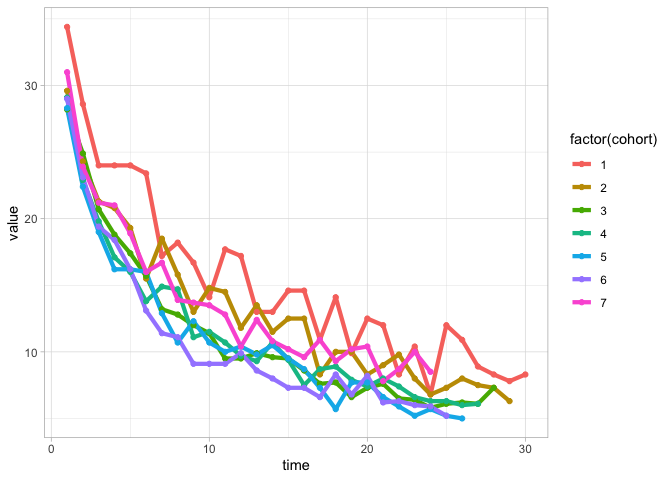
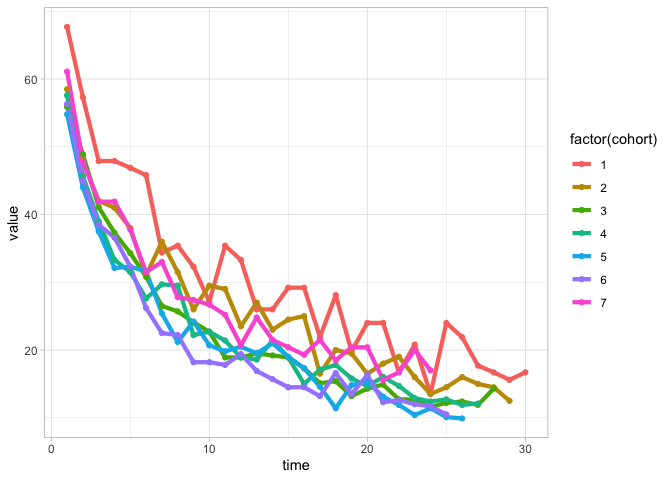
2nd release, fixed grouped count

diff --git a/README.md b/README.md
@@ -8,6 +8,7 @@
 [![R-CMD-check](https://github.com/PeerChristensen/cohorts/actions/workflows/R-CMD-check.yaml/badge.svg)](https://github.com/PeerChristensen/cohorts/actions/workflows/R-CMD-check.yaml)
 [![CRAN
 status](https://www.r-pkg.org/badges/version/cohorts)](https://CRAN.R-project.org/package=cohorts)
+[![Downloads](https://cranlogs.r-pkg.org/badges/grand-total/cohorts)](https://cranlogs.r-pkg.org/badges/grand-total/cohorts)
 <!-- badges: end -->
 
 Creating cohort tables from event data is complicated and requires
@@ -55,15 +56,15 @@ tracked from the first invoice month until the last month in the period.
 ``` r
 online_cohorts %>%
   cohort_table_month(CustomerID, InvoiceDate)
-#> # A tibble: 13 x 14
+#> # A tibble: 13 × 14
 #>    cohort `Dec 2010` `Jan 2011` `Feb 2011` `Mar 2011` `Apr 2011` `May 2011`
 #>     <int>      <int>      <int>      <int>      <int>      <int>      <int>
-#>  1      1       1423        622        522        666        539        655
-#>  2      2         NA        514        127        163        132        201
-#>  3      3         NA         NA        451        122         97        135
-#>  4      4         NA         NA         NA        509        106        155
-#>  5      5         NA         NA         NA         NA        362         98
-#>  6      6         NA         NA         NA         NA         NA        336
+#>  1      1        949        363        318        368        342        377
+#>  2      2         NA        421        101        119        102        138
+#>  3      3         NA         NA        380         94         73        106
+#>  4      4         NA         NA         NA        440         84        112
+#>  5      5         NA         NA         NA         NA        299         68
+#>  6      6         NA         NA         NA         NA         NA        279
 #>  7      7         NA         NA         NA         NA         NA         NA
 #>  8      8         NA         NA         NA         NA         NA         NA
 #>  9      9         NA         NA         NA         NA         NA         NA
@@ -71,8 +72,9 @@ online_cohorts %>%
 #> 11     11         NA         NA         NA         NA         NA         NA
 #> 12     12         NA         NA         NA         NA         NA         NA
 #> 13     13         NA         NA         NA         NA         NA         NA
-#> # … with 7 more variables: Jun 2011 <int>, Jul 2011 <int>, Aug 2011 <int>,
-#> #   Sep 2011 <int>, Oct 2011 <int>, Nov 2011 <int>, Dec 2011 <int>
+#> # … with 7 more variables: `Jun 2011` <int>, `Jul 2011` <int>,
+#> #   `Aug 2011` <int>, `Sep 2011` <int>, `Oct 2011` <int>, `Nov 2011` <int>,
+#> #   `Dec 2011` <int>
 ```
 
 ## Creating a day level cohort table
@@ -83,27 +85,26 @@ If we need to track activity on a daily basis, we can instead use the
 ``` r
 gamelaunch %>%
   cohort_table_day(userid, eventDate)
-#> # A tibble: 31 x 32
+#> # A tibble: 31 × 32
 #>    cohort `2016-04-27` `2016-04-28` `2016-04-29` `2016-04-30` `2016-05-01`
 #>     <int>        <int>        <int>        <int>        <int>        <int>
-#>  1      1          192           66           55           46           46
-#>  2      2           NA          399          118           97           85
-#>  3      3           NA           NA          740          209          184
-#>  4      4           NA           NA           NA          773          225
-#>  5      5           NA           NA           NA           NA          807
+#>  1      1           96           65           55           46           46
+#>  2      2           NA          200          117           96           84
+#>  3      3           NA           NA          370          207          181
+#>  4      4           NA           NA           NA          387          223
+#>  5      5           NA           NA           NA           NA          405
 #>  6      6           NA           NA           NA           NA           NA
 #>  7      7           NA           NA           NA           NA           NA
 #>  8      8           NA           NA           NA           NA           NA
 #>  9      9           NA           NA           NA           NA           NA
 #> 10     10           NA           NA           NA           NA           NA
-#> # … with 21 more rows, and 26 more variables: 2016-05-02 <int>,
-#> #   2016-05-03 <int>, 2016-05-04 <int>, 2016-05-05 <int>, 2016-05-06 <int>,
-#> #   2016-05-07 <int>, 2016-05-08 <int>, 2016-05-09 <int>, 2016-05-10 <int>,
-#> #   2016-05-11 <int>, 2016-05-12 <int>, 2016-05-13 <int>, 2016-05-14 <int>,
-#> #   2016-05-15 <int>, 2016-05-16 <int>, 2016-05-17 <int>, 2016-05-18 <int>,
-#> #   2016-05-19 <int>, 2016-05-20 <int>, 2016-05-21 <int>, 2016-05-22 <int>,
-#> #   2016-05-23 <int>, 2016-05-24 <int>, 2016-05-25 <int>, 2016-05-26 <int>,
-#> #   2016-05-27 <int>
+#> # … with 21 more rows, and 26 more variables: `2016-05-02` <int>,
+#> #   `2016-05-03` <int>, `2016-05-04` <int>, `2016-05-05` <int>,
+#> #   `2016-05-06` <int>, `2016-05-07` <int>, `2016-05-08` <int>,
+#> #   `2016-05-09` <int>, `2016-05-10` <int>, `2016-05-11` <int>,
+#> #   `2016-05-12` <int>, `2016-05-13` <int>, `2016-05-14` <int>,
+#> #   `2016-05-15` <int>, `2016-05-16` <int>, `2016-05-17` <int>,
+#> #   `2016-05-18` <int>, `2016-05-19` <int>, `2016-05-20` <int>, …
 ```
 
 ## Converting to percentages
@@ -116,27 +117,26 @@ function.
 gamelaunch %>%
   cohort_table_day(userid, eventDate) %>%
   cohort_table_pct(decimals = 1)
-#> # A tibble: 31 x 32
+#> # A tibble: 31 × 32
 #>    cohort `2016-04-27` `2016-04-28` `2016-04-29` `2016-04-30` `2016-05-01`
 #>     <int>        <dbl>        <dbl>        <dbl>        <dbl>        <dbl>
-#>  1      1          100         34.4         28.6         24           24  
-#>  2      2           NA        100           29.6         24.3         21.3
-#>  3      3           NA         NA          100           28.2         24.9
-#>  4      4           NA         NA           NA          100           29.1
+#>  1      1          100         67.7         57.3         47.9         47.9
+#>  2      2           NA        100           58.5         48           42  
+#>  3      3           NA         NA          100           55.9         48.9
+#>  4      4           NA         NA           NA          100           57.6
 #>  5      5           NA         NA           NA           NA          100  
 #>  6      6           NA         NA           NA           NA           NA  
 #>  7      7           NA         NA           NA           NA           NA  
 #>  8      8           NA         NA           NA           NA           NA  
 #>  9      9           NA         NA           NA           NA           NA  
 #> 10     10           NA         NA           NA           NA           NA  
-#> # … with 21 more rows, and 26 more variables: 2016-05-02 <dbl>,
-#> #   2016-05-03 <dbl>, 2016-05-04 <dbl>, 2016-05-05 <dbl>, 2016-05-06 <dbl>,
-#> #   2016-05-07 <dbl>, 2016-05-08 <dbl>, 2016-05-09 <dbl>, 2016-05-10 <dbl>,
-#> #   2016-05-11 <dbl>, 2016-05-12 <dbl>, 2016-05-13 <dbl>, 2016-05-14 <dbl>,
-#> #   2016-05-15 <dbl>, 2016-05-16 <dbl>, 2016-05-17 <dbl>, 2016-05-18 <dbl>,
-#> #   2016-05-19 <dbl>, 2016-05-20 <dbl>, 2016-05-21 <dbl>, 2016-05-22 <dbl>,
-#> #   2016-05-23 <dbl>, 2016-05-24 <dbl>, 2016-05-25 <dbl>, 2016-05-26 <dbl>,
-#> #   2016-05-27 <dbl>
+#> # … with 21 more rows, and 26 more variables: `2016-05-02` <dbl>,
+#> #   `2016-05-03` <dbl>, `2016-05-04` <dbl>, `2016-05-05` <dbl>,
+#> #   `2016-05-06` <dbl>, `2016-05-07` <dbl>, `2016-05-08` <dbl>,
+#> #   `2016-05-09` <dbl>, `2016-05-10` <dbl>, `2016-05-11` <dbl>,
+#> #   `2016-05-12` <dbl>, `2016-05-13` <dbl>, `2016-05-14` <dbl>,
+#> #   `2016-05-15` <dbl>, `2016-05-16` <dbl>, `2016-05-17` <dbl>,
+#> #   `2016-05-18` <dbl>, `2016-05-19` <dbl>, `2016-05-20` <dbl>, …
 ```
 
 ## Left-shifted cohort tables
@@ -151,19 +151,19 @@ To left-shift a cohort table, we can use the `shift_left()` function.
 gamelaunch %>%
   cohort_table_day(userid, eventDate) %>%
   shift_left()
-#> # A tibble: 31 x 32
+#> # A tibble: 31 × 32
 #>    cohort    t0    t1    t2    t3    t4    t5    t6    t7    t8    t9   t10
 #>     <int> <dbl> <dbl> <dbl> <dbl> <dbl> <dbl> <dbl> <dbl> <dbl> <dbl> <dbl>
-#>  1      1   192    66    55    46    46    46    45    33    35    32    27
-#>  2      2   399   118    97    85    83    77    62    74    63    52    59
-#>  3      3   740   209   184   153   139   129   116    98    95    89    84
-#>  4      4   773   225   177   153   132   124   107   115   114    86    89
-#>  5      5   807   228   181   153   131   131   129   104    86    99    86
-#>  6      6   648   188   150   126   119   105    85    74    72    59    59
-#>  7      7   539   167   129   114   113   102    86    90    75    74    73
-#>  8      8   527   143   125    92    73    76    81    63    61    55    55
-#>  9      9   531   154   116   113   100    94    89    72    69    63    66
-#> 10     10   251    74    58    51    42    42    50    41    42    40    32
+#>  1      1    96    65    55    46    46    45    44    33    34    31    26
+#>  2      2   200   117    96    84    82    76    62    72    63    52    59
+#>  3      3   370   207   181   152   138   127   114    98    95    89    84
+#>  4      4   387   223   177   151   129   122   107   115   114    86    88
+#>  5      5   405   222   178   152   130   131   128   103    86    98    84
+#>  6      6   325   183   146   125   119   105    85    73    72    59    59
+#>  7      7   270   165   129   113   113   102    85    89    75    74    72
+#>  8      8   264   142   124    91    73    76    81    63    60    55    55
+#>  9      9   267   153   114   110    99    94    89    72    68    62    65
+#> 10     10   127    74    58    51    42    42    50    41    42    40    32
 #> # … with 21 more rows, and 20 more variables: t11 <dbl>, t12 <dbl>, t13 <dbl>,
 #> #   t14 <dbl>, t15 <dbl>, t16 <dbl>, t17 <dbl>, t18 <dbl>, t19 <dbl>,
 #> #   t20 <dbl>, t21 <dbl>, t22 <dbl>, t23 <dbl>, t24 <dbl>, t25 <dbl>,
@@ -176,19 +176,19 @@ We can also get the raw numbers as percentages.
 gamelaunch %>%
   cohort_table_day(userid, eventDate) %>%
   shift_left_pct()
-#> # A tibble: 31 x 32
+#> # A tibble: 31 × 32
 #>    cohort    t0    t1    t2    t3    t4    t5    t6    t7    t8    t9   t10
 #>     <int> <dbl> <dbl> <dbl> <dbl> <dbl> <dbl> <dbl> <dbl> <dbl> <dbl> <dbl>
-#>  1      1   100  34.4  28.6  24    24    24    23.4  17.2  18.2  16.7  14.1
-#>  2      2   100  29.6  24.3  21.3  20.8  19.3  15.5  18.5  15.8  13    14.8
-#>  3      3   100  28.2  24.9  20.7  18.8  17.4  15.7  13.2  12.8  12    11.4
-#>  4      4   100  29.1  22.9  19.8  17.1  16    13.8  14.9  14.7  11.1  11.5
-#>  5      5   100  28.3  22.4  19    16.2  16.2  16    12.9  10.7  12.3  10.7
-#>  6      6   100  29    23.1  19.4  18.4  16.2  13.1  11.4  11.1   9.1   9.1
-#>  7      7   100  31    23.9  21.2  21    18.9  16    16.7  13.9  13.7  13.5
-#>  8      8   100  27.1  23.7  17.5  13.9  14.4  15.4  12    11.6  10.4  10.4
-#>  9      9   100  29    21.8  21.3  18.8  17.7  16.8  13.6  13    11.9  12.4
-#> 10     10   100  29.5  23.1  20.3  16.7  16.7  19.9  16.3  16.7  15.9  12.7
+#>  1      1   100  67.7  57.3  47.9  47.9  46.9  45.8  34.4  35.4  32.3  27.1
+#>  2      2   100  58.5  48    42    41    38    31    36    31.5  26    29.5
+#>  3      3   100  55.9  48.9  41.1  37.3  34.3  30.8  26.5  25.7  24.1  22.7
+#>  4      4   100  57.6  45.7  39    33.3  31.5  27.6  29.7  29.5  22.2  22.7
+#>  5      5   100  54.8  44    37.5  32.1  32.3  31.6  25.4  21.2  24.2  20.7
+#>  6      6   100  56.3  44.9  38.5  36.6  32.3  26.2  22.5  22.2  18.2  18.2
+#>  7      7   100  61.1  47.8  41.9  41.9  37.8  31.5  33    27.8  27.4  26.7
+#>  8      8   100  53.8  47    34.5  27.7  28.8  30.7  23.9  22.7  20.8  20.8
+#>  9      9   100  57.3  42.7  41.2  37.1  35.2  33.3  27    25.5  23.2  24.3
+#> 10     10   100  58.3  45.7  40.2  33.1  33.1  39.4  32.3  33.1  31.5  25.2
 #> # … with 21 more rows, and 20 more variables: t11 <dbl>, t12 <dbl>, t13 <dbl>,
 #> #   t14 <dbl>, t15 <dbl>, t16 <dbl>, t17 <dbl>, t18 <dbl>, t19 <dbl>,
 #> #   t20 <dbl>, t21 <dbl>, t22 <dbl>, t23 <dbl>, t24 <dbl>, t25 <dbl>,

diff --git a/cran-comments.md b/cran-comments.md
@@ -1,27 +1,14 @@
 ## Test environments
 
-*   macOS 10.16 with R version 4.0.5
+*   macOS 11.6.2 with R version 4.0.5
+*   Apple Silicon (M1), macOS 11.6 Big Sur
 *   win-builder (devel and release)
-*   Windows Server 2008 R2 SP1, R-devel, 32/64 bit
+*   Windows Server 2008 R2 SP1, R-release, 32/64 bit
 *   Ubuntu Linux 20.04.1 LTS, R-release, GCC
-*   Fedora Linux, R-devel, clang, gfortran
+*   Debian Linux, R-devel, GCC
+
 
 ## R CMD check results
 
-There were no WARNINGs
+There were no ERRORs, WARNINGs or NOTEs
 
-There was 1 ERROR:
-
-*   Error : Bioconductor does not yet build and check packages for R version 4.2; see
-    https://bioconductor.org/install
-    
-The same error message was reported by other package developers here: https://github.com/r-hub/rhub/issues/471
-
-The error only occurred for Windows Server 2008 R2 SP1, R-devel, 32/64 bit
-
-There was 1 NOTE:
-
-*   checking CRAN incoming feasibility ... NOTE
-    Maintainer: 'Peer Christensen [hr.pchristensen@gmail.com]
-
-    New submission

diff --git a/NEWS.md b/NEWS.md
@@ -1,3 +1,9 @@
+# cohorts 1.1.0
+
+* Corrected small error in main functions
+
+
 # cohorts 1.0.0
 
 * Added core functions to the package.
+
